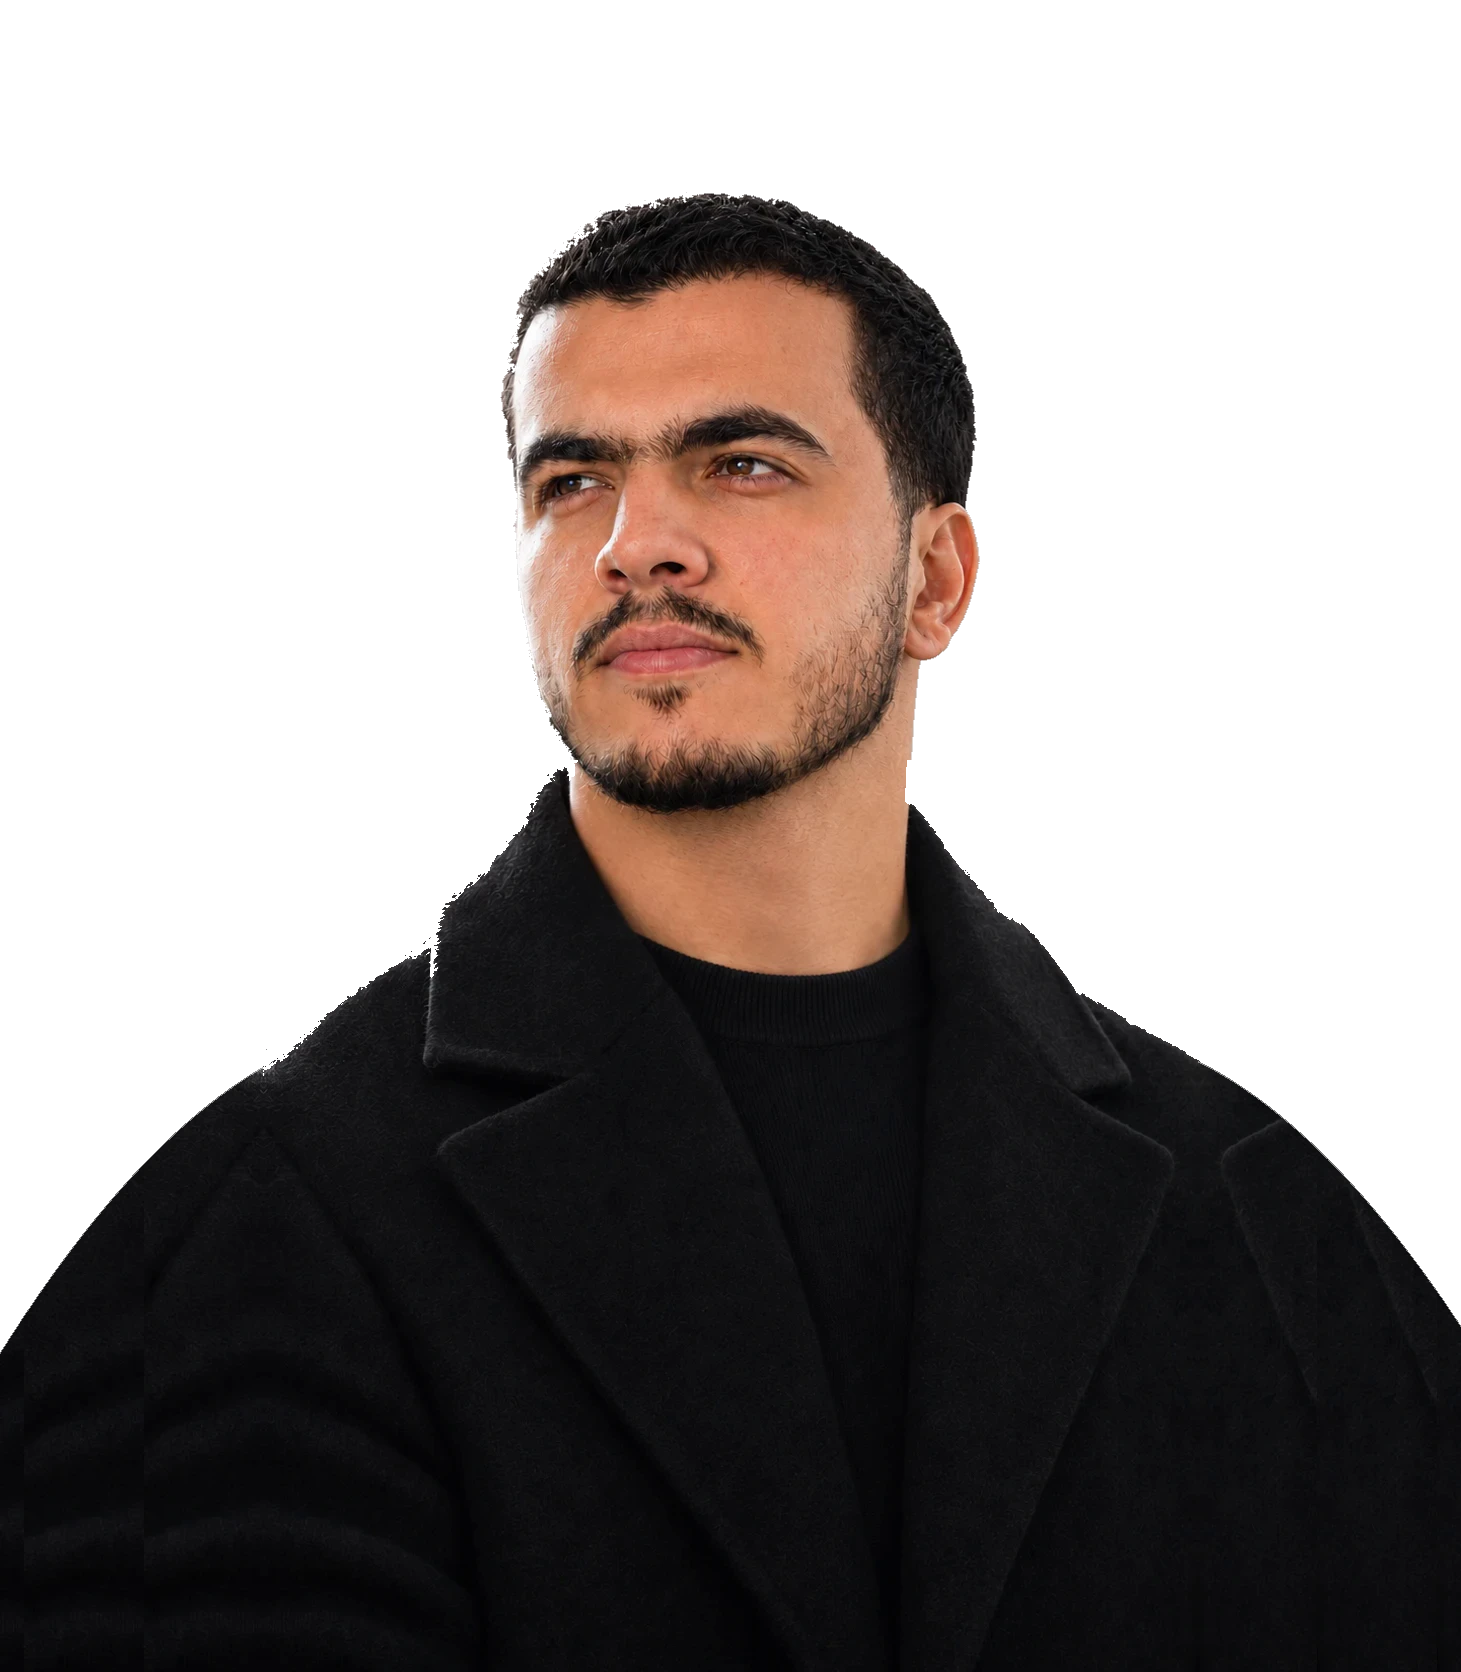
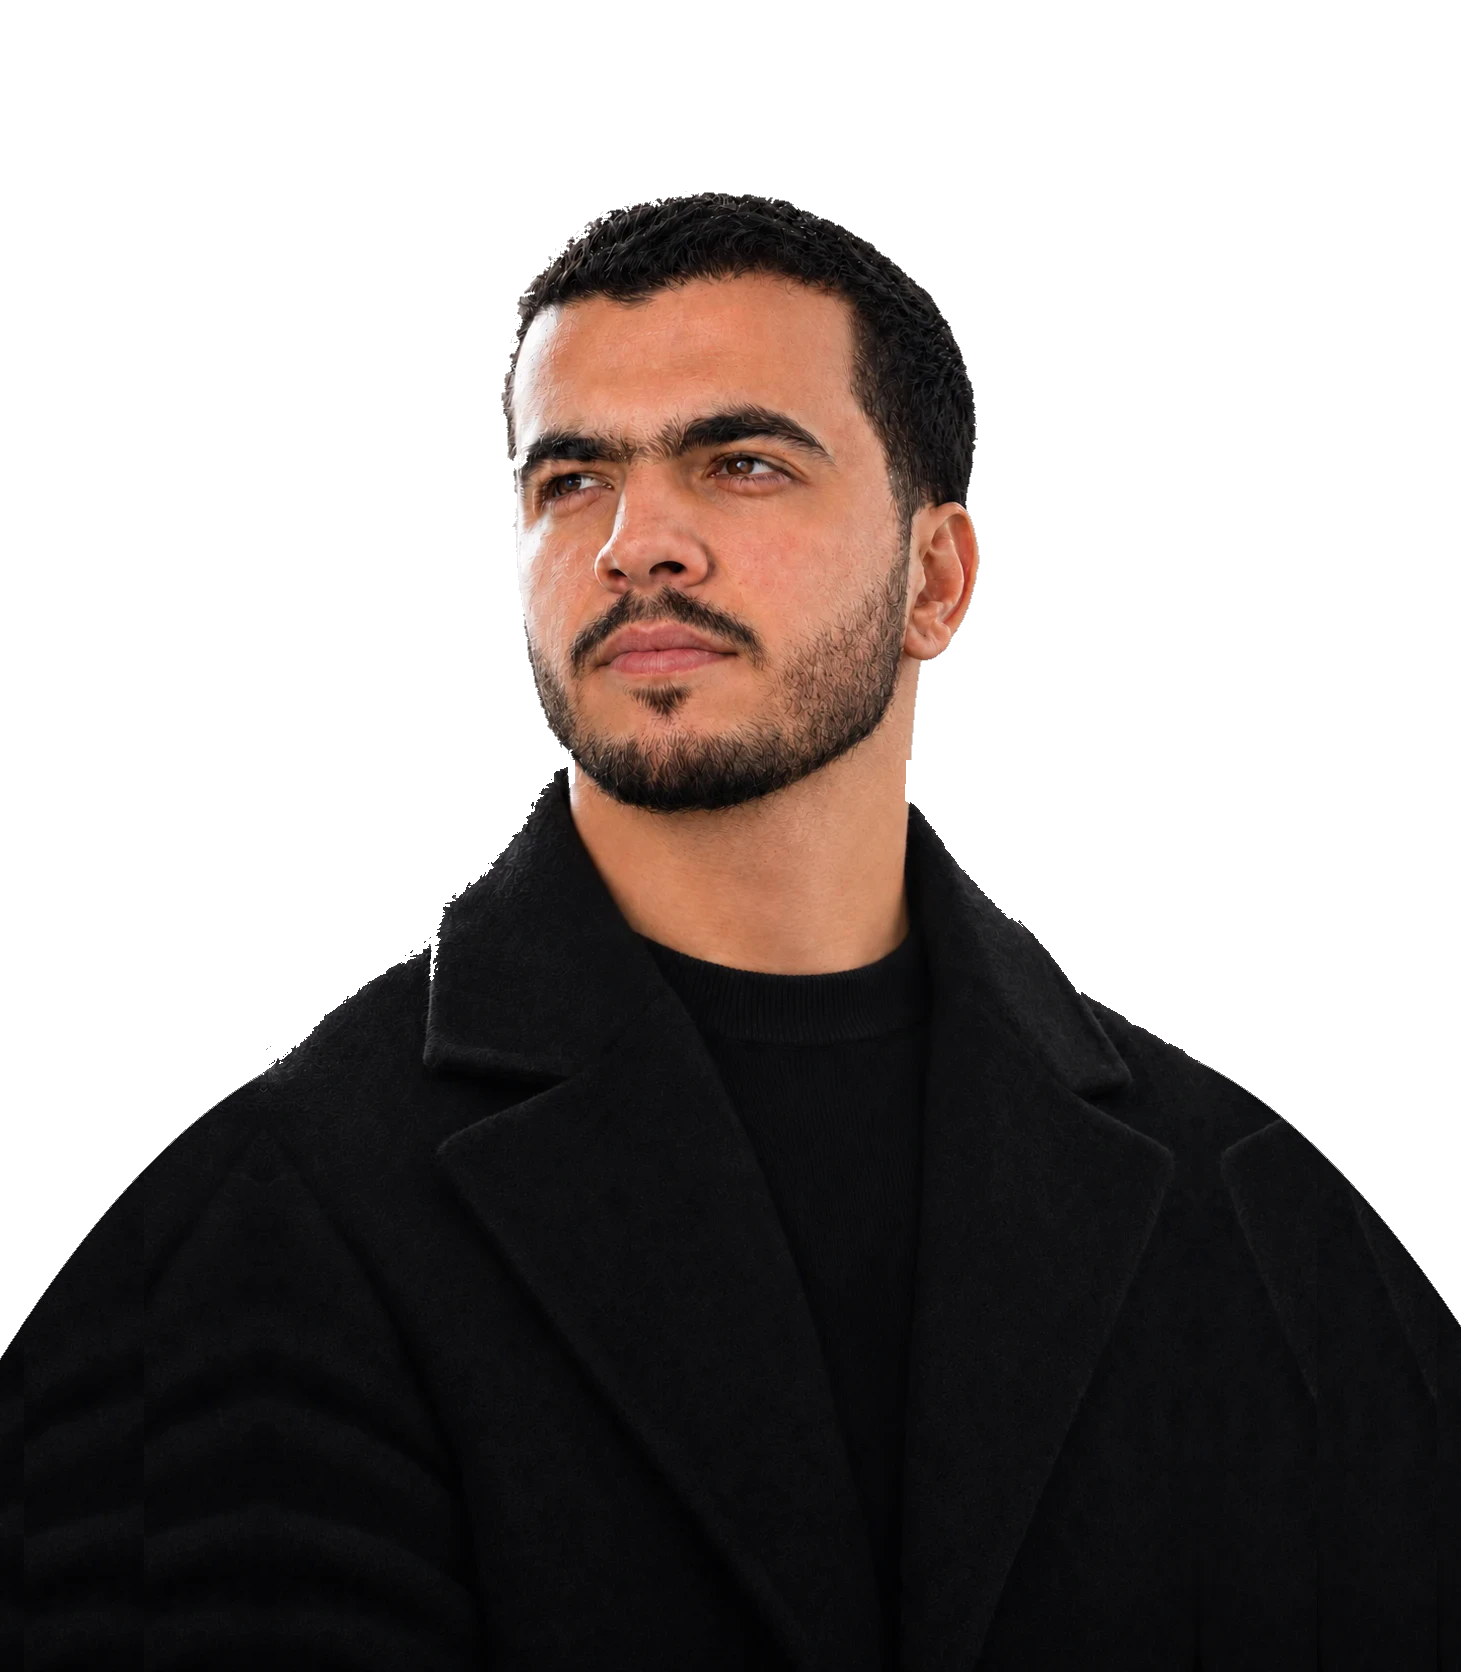
chore(portfolio): use the final portrait and remove unused files
Swaps in the final portrait, widens the Arabic hero line spacing so the
dots no longer touch, hides the Fikritak experience row, and removes the
placeholder images, old showcases and code nothing uses anymore.

diff --git a/projects-data.js b/projects-data.js
@@ -1,5 +1,4 @@
 // Biggest project first. This list drives both the cards and the details sheet.
-// crop = [zoom, x, y]; projects can also supply separate detail and gallery images.
 const projects = [
   {
     id: 'restrogram',
@@ -73,7 +72,6 @@ const projects = [
     image: 'images/covers/taskat.webp',
     detailImage: 'images/projects/taskat/main.webp',
     tint: '#eef1fa',
-    crop: ['136%', '95%', '2%'],
     meta: ['Full-stack', 'Laravel', 'Nuxt', 'WebSockets'],
     business: [
       ['The problem', 'Software teams need planning, tracking and team conversation in one place.'],
@@ -102,7 +100,6 @@ const projects = [
     image: 'images/covers/edux.webp',
     detailImage: 'images/projects/edux/main.webp',
     tint: '#eaf6f8',
-    crop: ['100%', '50%', '50%'],
     meta: ['Full-stack', 'In development', 'NestJS', 'PostgreSQL', 'Flutter'],
     business: [
       ['The problem', 'Teachers and students need structured educational content in one place.'],
@@ -132,7 +129,6 @@ const projects = [
     detailImage: 'images/projects/uop/main.webp',
     tint: '#f6f2fb',
     url: 'https://up.edu.ps/ar',
-    crop: ['235%', '36%', '5%'],
     meta: ['Full-stack', 'Laravel', 'Nuxt', 'Vue', 'Inertia'],
     business: [
       ['The problem', 'A university needs to publish and update all its official content in several languages.'],
@@ -189,7 +185,6 @@ const projects = [
     image: 'images/covers/shahrazad.webp',
     detailImage: 'images/projects/shahrazad/main.webp',
     tint: '#f5efe6',
-    crop: ['100%', '50%', '50%'],
     meta: ['Backend', 'At Fikritak', 'Laravel 12', 'MySQL'],
     business: [
       ['The idea', 'One place for travellers to book flights and transfers and buy eSIMs.'],
@@ -218,7 +213,6 @@ const projects = [
     image: 'images/covers/er-atlas.webp',
     detailImage: 'images/projects/er-atlas/main.webp',
     tint: '#f2f1fa',
-    crop: ['100%', '50%', '50%'],
     meta: ['Personal tool', 'Node.js', 'JavaScript', 'PostgreSQL'],
     business: [
       ['The problem', 'Large database schemas are hard to read and risky to change.'],

diff --git a/index.html b/index.html
@@ -169,7 +169,7 @@
       <div class="divider"><span class="tag divider-tag">Experience</span></div>
 
       <div class="xp-list">
-        <article class="xp-row is-current">
+        <!-- <article class="xp-row is-current">
           <div class="xp-year">2026</div>
           <span class="xp-logo" role="img" aria-label="Fikritak placeholder logo">F</span>
           <div class="xp-body">
@@ -178,7 +178,7 @@
             <span class="xp-role">Backend Engineer · Part-time</span>
             <p class="xp-note">Building Shahrazad Tours, a booking API for flights, transfers and travel eSIMs.</p>
           </div>
-        </article>
+        </article> -->
         <article class="xp-row is-current">
           <div class="xp-year">2023</div>
           <span class="xp-logo"><img src="logos/approved-tech.png" alt="Approved Tech logo"></span>

diff --git a/i18n.js b/i18n.js
@@ -8,7 +8,6 @@ const ui = isArabic
       useDark: 'استخدام الوضع الداكن',
       useLight: 'استخدام الوضع الفاتح',
       otherLanguage: 'Switch to English',
-      demo: 'صورة توضيحية',
       demoImage: 'صورة توضيحية',
       sampleData: 'بعض الشاشات تعرض بيانات تجريبية.',
       screens: 'شاشات',
@@ -31,7 +30,6 @@ const ui = isArabic
       useDark: 'Use dark theme',
       useLight: 'Use light theme',
       otherLanguage: 'التبديل إلى العربية',
-      demo: 'Illustration',
       demoImage: 'illustration',
       sampleData: 'Some screens show sample data.',
       screens: 'screens',

diff --git a/arabic.css b/arabic.css
@@ -59,7 +59,7 @@
 
 @media (min-width: 900px) {
   .ar-title { line-height: 1.6; }
-  .hero .ar-title { font-size: calc(var(--u) * 58); line-height: 1.3; margin-top: calc(var(--u) * 8); }
+  .hero .ar-title { font-size: calc(var(--u) * 58); line-height: 1.6; margin-top: calc(var(--u) * 4); }
   [dir="rtl"] .avatar-sign { right: auto; left: auto; inset-inline-start: calc(100% + var(--u) * 10); transform: rotate(-6deg); }
   [dir="rtl"] .avatar-name { font-size: calc(var(--u) * 40); }
   .cta .ar-title { font-size: calc(var(--u) * 60); }

diff --git a/projects.js b/projects.js
@@ -22,7 +22,6 @@ function renderProject(project, rank) {
   card.innerHTML = `
     <span class="project-media">
       <img src="${project.image}" alt="${project.name} ${ui.demoImage}" loading="lazy">
-      ${project.demo ? `<span class="project-demo">${ui.demo}</span>` : ''}
     </span>
     <span class="project-name">${project.name}</span>
     <span class="project-tag">${project.tag}</span>

diff --git a/projects.css b/projects.css
@@ -48,16 +48,6 @@
   filter: grayscale(1);
   transition: filter 220ms ease;
 }
-.project-demo {
-  position: absolute;
-  top: 8px;
-  left: 8px;
-  padding: 3px 9px;
-  border-radius: 999px;
-  background: #fff;
-  font-size: .6875rem;
-  font-weight: 600;
-}
 .project-name {
   display: block;
   margin-top: 10px;

diff --git a/dark.css b/dark.css
@@ -20,7 +20,6 @@
 [data-theme="dark"] .pill,
 [data-theme="dark"] .btn-light,
 [data-theme="dark"] .project-card,
-[data-theme="dark"] .project-demo,
 [data-theme="dark"] .sheet-close,
 [data-theme="dark"] .xp-logo { background: var(--raised); color: var(--ink); }
 [data-theme="dark"] { --brush: #4d4c49; }
